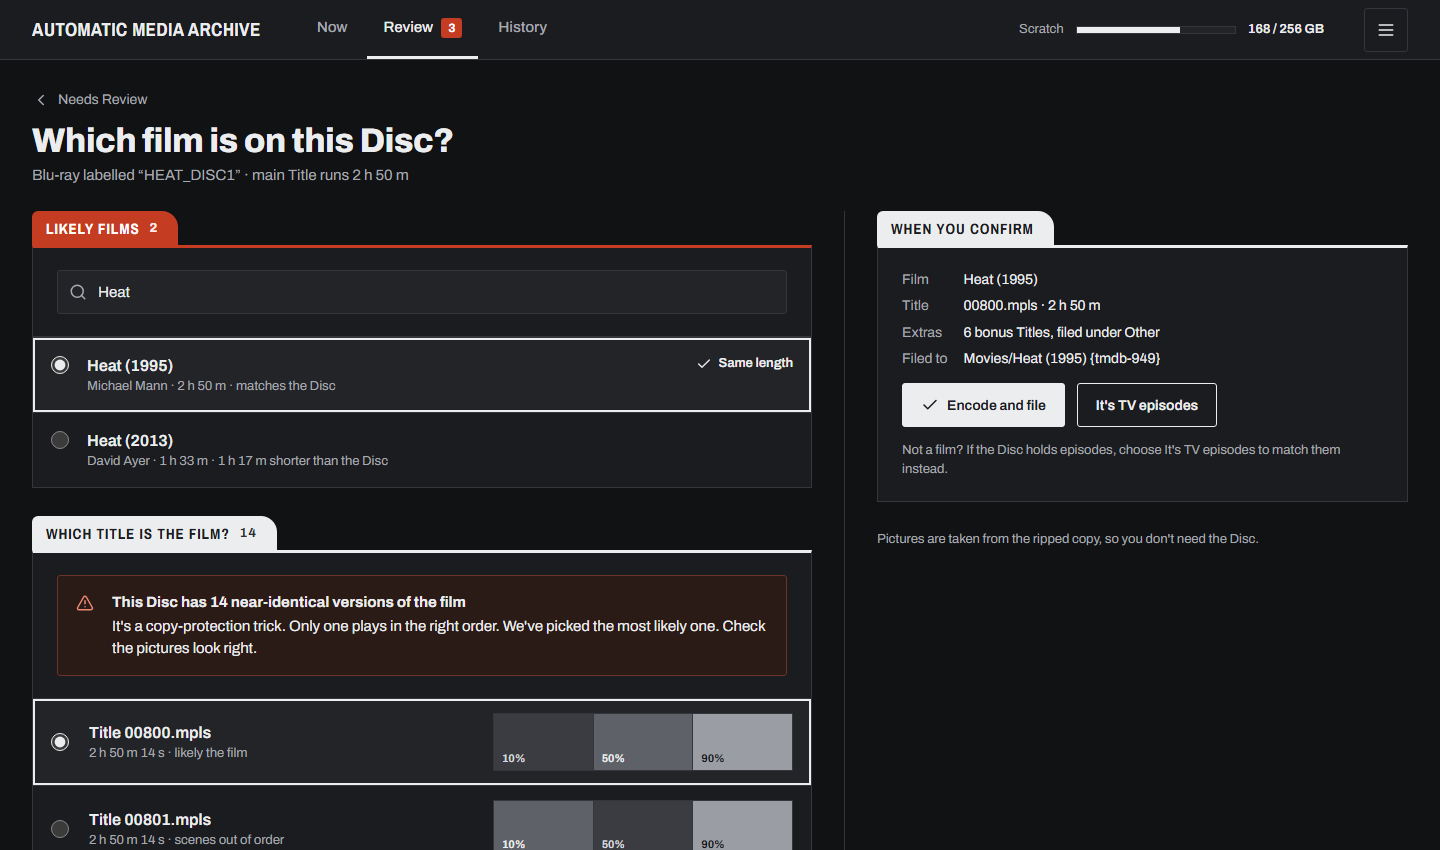
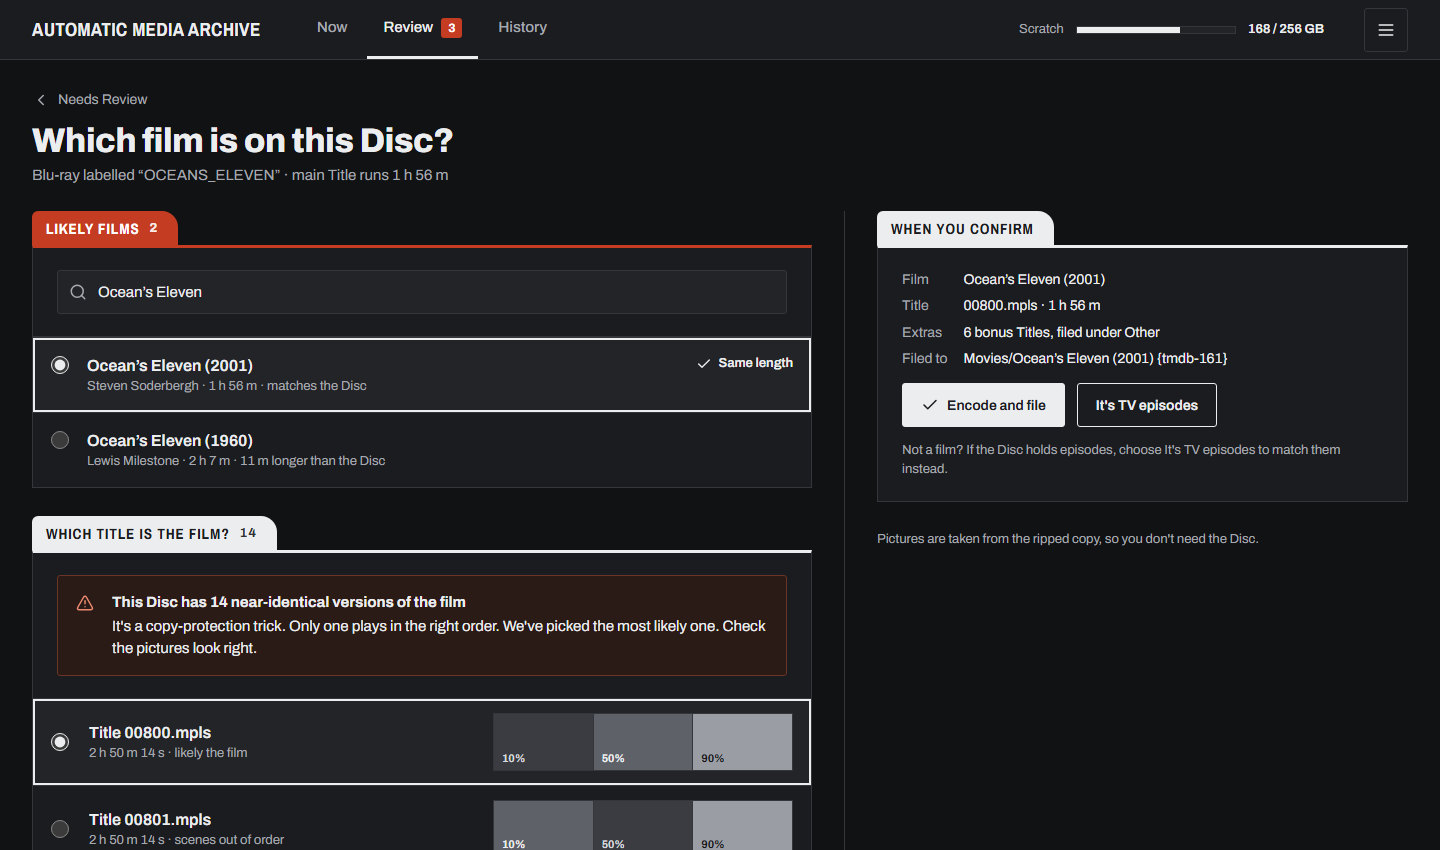
Drop text width caps on the site and refresh example titles in screenshots
The Review and History mockups now use Ocean's Eleven/Twelve, Firefly and
Queen's Greatest Hits, so the site's screenshots match its examples.

diff --git a/docs/mockups/review-movie.html b/docs/mockups/review-movie.html
@@ -34,7 +34,7 @@
     <div>
       <div class="crumb"><svg class="i" aria-hidden="true"><use href="assets/icons.svg#back"/></svg><a href="now.html">Needs Review</a></div>
       <h1>Which film is on this Disc?</h1>
-      <p class="sub">Blu-ray labelled “HEAT_DISC1” · main Title runs 2 h 50 m</p>
+      <p class="sub">Blu-ray labelled “OCEANS_ELEVEN” · main Title runs 1 h 56 m</p>
     </div>
   </div>
   <div class="split">
@@ -42,9 +42,9 @@
       <section class="bin rev" aria-label="Likely films">
         <h2 class="tab">Likely films <span class="c">2</span></h2>
         <form class="box">
-          <div class="pad search" style="border-bottom:1px solid var(--rule)"><label class="sr" for="q">Search films</label><svg class="i" style="left:36px;top:35px"><use href="assets/icons.svg#search"/></svg><input class="input" id="q" type="search" value="Heat"></div>
-          <label class="radio on"><input type="radio" name="film" checked><div><div class="tt">Heat (1995)</div><div class="ts">Michael Mann · 2 h 50 m · matches the Disc</div></div><span class="mark"><svg class="i" aria-hidden="true"><use href="assets/icons.svg#check"/></svg>Same length</span></label>
-          <label class="radio"><input type="radio" name="film"><div><div class="tt">Heat (2013)</div><div class="ts">David Ayer · 1 h 33 m · 1 h 17 m shorter than the Disc</div></div><span></span></label>
+          <div class="pad search" style="border-bottom:1px solid var(--rule)"><label class="sr" for="q">Search films</label><svg class="i" style="left:36px;top:35px"><use href="assets/icons.svg#search"/></svg><input class="input" id="q" type="search" value="Ocean’s Eleven"></div>
+          <label class="radio on"><input type="radio" name="film" checked><div><div class="tt">Ocean’s Eleven (2001)</div><div class="ts">Steven Soderbergh · 1 h 56 m · matches the Disc</div></div><span class="mark"><svg class="i" aria-hidden="true"><use href="assets/icons.svg#check"/></svg>Same length</span></label>
+          <label class="radio"><input type="radio" name="film"><div><div class="tt">Ocean’s Eleven (1960)</div><div class="ts">Lewis Milestone · 2 h 7 m · 11 m longer than the Disc</div></div><span></span></label>
         </form>
       </section>
       <section class="bin ink" aria-labelledby="titles-h">
@@ -66,7 +66,7 @@
       <section class="bin ink" aria-label="What happens next">
         <h2 class="tab">When you confirm</h2>
         <div class="box"><div class="pad stack" style="gap:14px">
-          <dl class="facts"><dt>Film</dt><dd>Heat (1995)</dd><dt>Title</dt><dd>00800.mpls · 2 h 50 m</dd><dt>Extras</dt><dd>6 bonus Titles, filed under Other</dd><dt>Filed to</dt><dd style="overflow-wrap:anywhere">Movies/Heat (1995) {tmdb-949}</dd></dl>
+          <dl class="facts"><dt>Film</dt><dd>Ocean’s Eleven (2001)</dd><dt>Title</dt><dd>00800.mpls · 1 h 56 m</dd><dt>Extras</dt><dd>6 bonus Titles, filed under Other</dd><dt>Filed to</dt><dd style="overflow-wrap:anywhere">Movies/Ocean’s Eleven (2001) {tmdb-161}</dd></dl>
           <div class="actions"><button class="btn pri" type="button"><svg class="i" aria-hidden="true"><use href="assets/icons.svg#check"/></svg>Encode and file</button><a class="btn" href="review-tv.html">It's TV episodes</a></div>
           <p class="ts">Not a film? If the Disc holds episodes, choose It's TV episodes to match them instead.</p>
         </div></div>

diff --git a/docs/mockups/history.html b/docs/mockups/history.html
@@ -36,21 +36,21 @@
     <h2 class="tab" id="history-h">All Discs <span class="c">3</span></h2>
     <div class="box">
       <div class="row compact"><div class="dtype art"><img src="assets/cover-b.png" alt="" loading="lazy"></div>
-        <div><div class="tt"><a href="#">The Office (2001) · 3 Episodes</a></div>
-          <div class="ts hmeta"><span>TV · Disc 2 of 3</span><a class="src" href="#">Details on TMDB</a></div>
-          <details class="names"><summary class="ts">3 Episodes <svg class="i" aria-hidden="true"><use href="assets/icons.svg#chevron"/></svg></summary><ol class="ts"><li>S01E01 · Downsize</li><li>S01E02 · Work Experience</li><li>S01E03 · The Quiz</li></ol></details></div>
+        <div><div class="tt"><a href="#">Firefly (2002) · 3 Episodes</a></div>
+          <div class="ts hmeta"><span>TV · Disc 1 of 4</span><a class="src" href="#">Details on TMDB</a></div>
+          <details class="names"><summary class="ts">3 Episodes <svg class="i" aria-hidden="true"><use href="assets/icons.svg#chevron"/></svg></summary><ol class="ts"><li>S01E01 · Serenity</li><li>S01E02 · The Train Job</li><li>S01E03 · Bushwhacked</li></ol></details></div>
         <span class="ts when">04 Nov</span>
       </div>
       <div class="row compact"><div class="dtype art"><img src="assets/poster-a.png" alt="" loading="lazy"></div>
-        <div><div class="tt"><a href="disc-filed-film.html">Example Movie (2016)</a></div>
+        <div><div class="tt"><a href="disc-filed-film.html">Ocean’s Twelve (2004)</a></div>
           <div class="ts hmeta"><span>Films · 1080p</span><a class="src" href="#">Details on TMDB</a></div>
           <details class="names"><summary class="ts">1 Extra <svg class="i" aria-hidden="true"><use href="assets/icons.svg#chevron"/></svg></summary><ol class="ts"><li>Making Of</li></ol></details></div>
         <span class="ts when">04 Nov</span>
       </div>
       <div class="row compact"><div class="dtype art"><img src="assets/cover-a.png" alt="" loading="lazy"></div>
-        <div><div class="tt"><a href="disc-filed-cd.html">FINAL FANTASY VII REBIRTH Original Soundtrack ～Special edit version～ — Various Artists</a></div>
-          <div class="ts hmeta"><span>Music · Disc 1 of 8 · all tracks match other copies</span><a class="src" href="#">Details on MusicBrainz</a></div>
-          <details class="names"><summary class="ts">24 tracks <svg class="i" aria-hidden="true"><use href="assets/icons.svg#chevron"/></svg></summary><ol class="ts"><li>1. The Unknown Journey Continues</li><li>2. Hollow</li><li>3. Rebirth</li></ol></details></div>
+        <div><div class="tt"><a href="disc-filed-cd.html">Greatest Hits — Queen</a></div>
+          <div class="ts hmeta"><span>Music · all tracks match other copies</span><a class="src" href="#">Details on MusicBrainz</a></div>
+          <details class="names"><summary class="ts">17 tracks <svg class="i" aria-hidden="true"><use href="assets/icons.svg#chevron"/></svg></summary><ol class="ts"><li>1. Bohemian Rhapsody</li><li>2. Another One Bites the Dust</li><li>3. Killer Queen</li></ol></details></div>
         <span class="ts when">04 Nov</span>
       </div>
     </div>

diff --git a/docs/mockups/site/site.css b/docs/mockups/site/site.css
@@ -38,25 +38,25 @@
 .doc{padding:40px 56px 56px;min-width:0}
 .doc .crumb{margin-bottom:12px}
 .doc h1{font-size:44px;line-height:1.05;letter-spacing:-.02em}
-.doc .sub{font-size:18px;max-width:60ch;margin-top:12px}
+.doc .sub{font-size:18px;margin-top:12px}
 .doc h2{font:700 24px/1.2 Archivo;margin:48px 0 12px;scroll-margin-top:24px}
 .doc h3{font:700 17px/1.3 Archivo;margin:28px 0 8px}
-.doc p,.doc li{max-width:68ch;font-size:16px;line-height:1.6}
+.doc p,.doc li{font-size:16px;line-height:1.6}
 .doc p+p{margin-top:12px}
 .doc a:not(.btn){text-underline-offset:3px;text-decoration-thickness:1px}
 .doc ol.num{margin:12px 0 0 22px}
 .doc ol.num li{padding-left:6px;margin-top:8px}
 .doc code{font:13px/1.4 ui-monospace,"SF Mono",Menlo,Consolas,monospace;background:var(--code);border:1px solid var(--rule);border-radius:3px;padding:1px 5px;overflow-wrap:anywhere}
-.doc .notice{margin-top:16px;max-width:68ch}
+.doc .notice{margin-top:16px}
 .doc .notice p{font-size:15px}
 .doc .dl{display:flex;gap:12px;align-items:center;flex-wrap:wrap;margin-top:16px}
 .doc .dl small{color:var(--ink2);font-size:13px}
-.kv{width:100%;max-width:760px;border-collapse:collapse;margin-top:12px;border:1px solid var(--rule);background:var(--well)}
+.kv{width:100%;border-collapse:collapse;margin-top:12px;border:1px solid var(--rule);background:var(--well)}
 .kv th,.kv td{text-align:left;padding:12px 16px;border-top:1px solid var(--rule);vertical-align:top;font-size:15px}
 .kv thead th{font:600 13px Archivo;color:var(--ink2);border-top:0}
 .kv td:first-child{font-weight:600;width:34%}
 .kv td small{display:block;color:var(--ink2);font-size:13px}
-.next{display:grid;grid-template-columns:1fr 1fr;gap:16px;margin-top:56px;max-width:760px}
+.next{display:grid;grid-template-columns:1fr 1fr;gap:16px;margin-top:56px}
 .next a{display:flex;flex-direction:column;gap:4px;padding:16px 18px;border:1px solid var(--rule);background:var(--well);text-decoration:none;border-radius:3px}
 .next a:hover{border-color:var(--ink)}
 .next a span{color:var(--ink2);font-size:13px}
@@ -73,7 +73,7 @@
 @media (max-width:1240px){
   .dsheet{grid-template-columns:220px minmax(0,1fr)}
   .toc{display:none}
-  .toc-m{display:block;margin-top:24px;border:1px solid var(--rule);background:var(--well);border-radius:3px;max-width:68ch}
+  .toc-m{display:block;margin-top:24px;border:1px solid var(--rule);background:var(--well);border-radius:3px}
   .toc-m summary{min-height:48px;display:flex;align-items:center;padding:0 16px;font-weight:600;cursor:pointer}
   .toc-m a{display:flex;align-items:center;min-height:44px;padding:0 16px;border-top:1px solid var(--rule);color:var(--ink2);text-decoration:none}
 }

diff --git a/docs/mockups/site/landing.css b/docs/mockups/site/landing.css
@@ -1,7 +1,7 @@
 /* Landing page. The website speaks in plain text on the ground; anything that shows the app sits inside an .appwin frame. */
 .lead{display:grid;grid-template-columns:minmax(0,1fr) auto;gap:48px;align-items:end;padding:64px 0 40px}
-.lead h1{font:800 76px/.98 Archivo;letter-spacing:-.03em;text-wrap:balance;max-width:14ch}
-.lead .lede{color:var(--ink2);font-size:20px;max-width:52ch;margin-top:24px}
+.lead h1{font:800 76px/.98 Archivo;letter-spacing:-.03em;text-wrap:balance}
+.lead .lede{color:var(--ink2);font-size:20px;margin-top:24px}
 .cta{display:flex;flex-direction:column;gap:10px;min-width:300px}
 .cta small{color:var(--ink2);font-size:13px}
 .cta .btn+small{margin-bottom:8px}
@@ -22,14 +22,14 @@
 
 /* website sections */
 .block{padding-top:112px}
-.block>h2,.h2{font:800 40px/1.08 Archivo;letter-spacing:-.02em;text-wrap:balance;max-width:20ch}
-.intro{color:var(--ink2);font-size:18px;max-width:62ch;margin-top:14px}
+.block>h2,.h2{font:800 40px/1.08 Archivo;letter-spacing:-.02em;text-wrap:balance}
+.intro{color:var(--ink2);font-size:18px;margin-top:14px}
 .more-link{display:inline-flex;align-items:center;gap:6px;min-height:44px;margin-top:8px;font-weight:600;text-underline-offset:3px}
 
 .stages{list-style:none;display:grid;grid-template-columns:repeat(4,minmax(0,1fr));gap:32px;margin-top:40px}
 .stages li{border-top:3px solid var(--c);padding-top:18px}
 .stages h3{font:700 20px/1.2 Archivo}
-.stages p{color:var(--ink2);margin-top:8px;max-width:40ch}
+.stages p{color:var(--ink2);margin-top:8px}
 .stages .you{color:var(--ink);font-weight:600;margin-top:14px}
 
 .asks{display:grid;grid-template-columns:minmax(0,1fr) minmax(0,600px);gap:64px;align-items:start}
@@ -60,7 +60,7 @@
 .handles td:first-child{font:800 20px/1.2 Archivo;width:120px}
 .handles b{font-weight:600}
 .handles small{display:block;color:var(--ink2);font-size:14px;margin-top:2px}
-.reqs{color:var(--ink2);margin-top:20px;max-width:80ch}
+.reqs{color:var(--ink2);margin-top:20px}
 .reqs b{color:var(--ink);font-weight:600}
 
 .install{list-style:none;counter-reset:s;display:grid;grid-template-columns:repeat(3,minmax(0,1fr));gap:32px;margin-top:40px}
